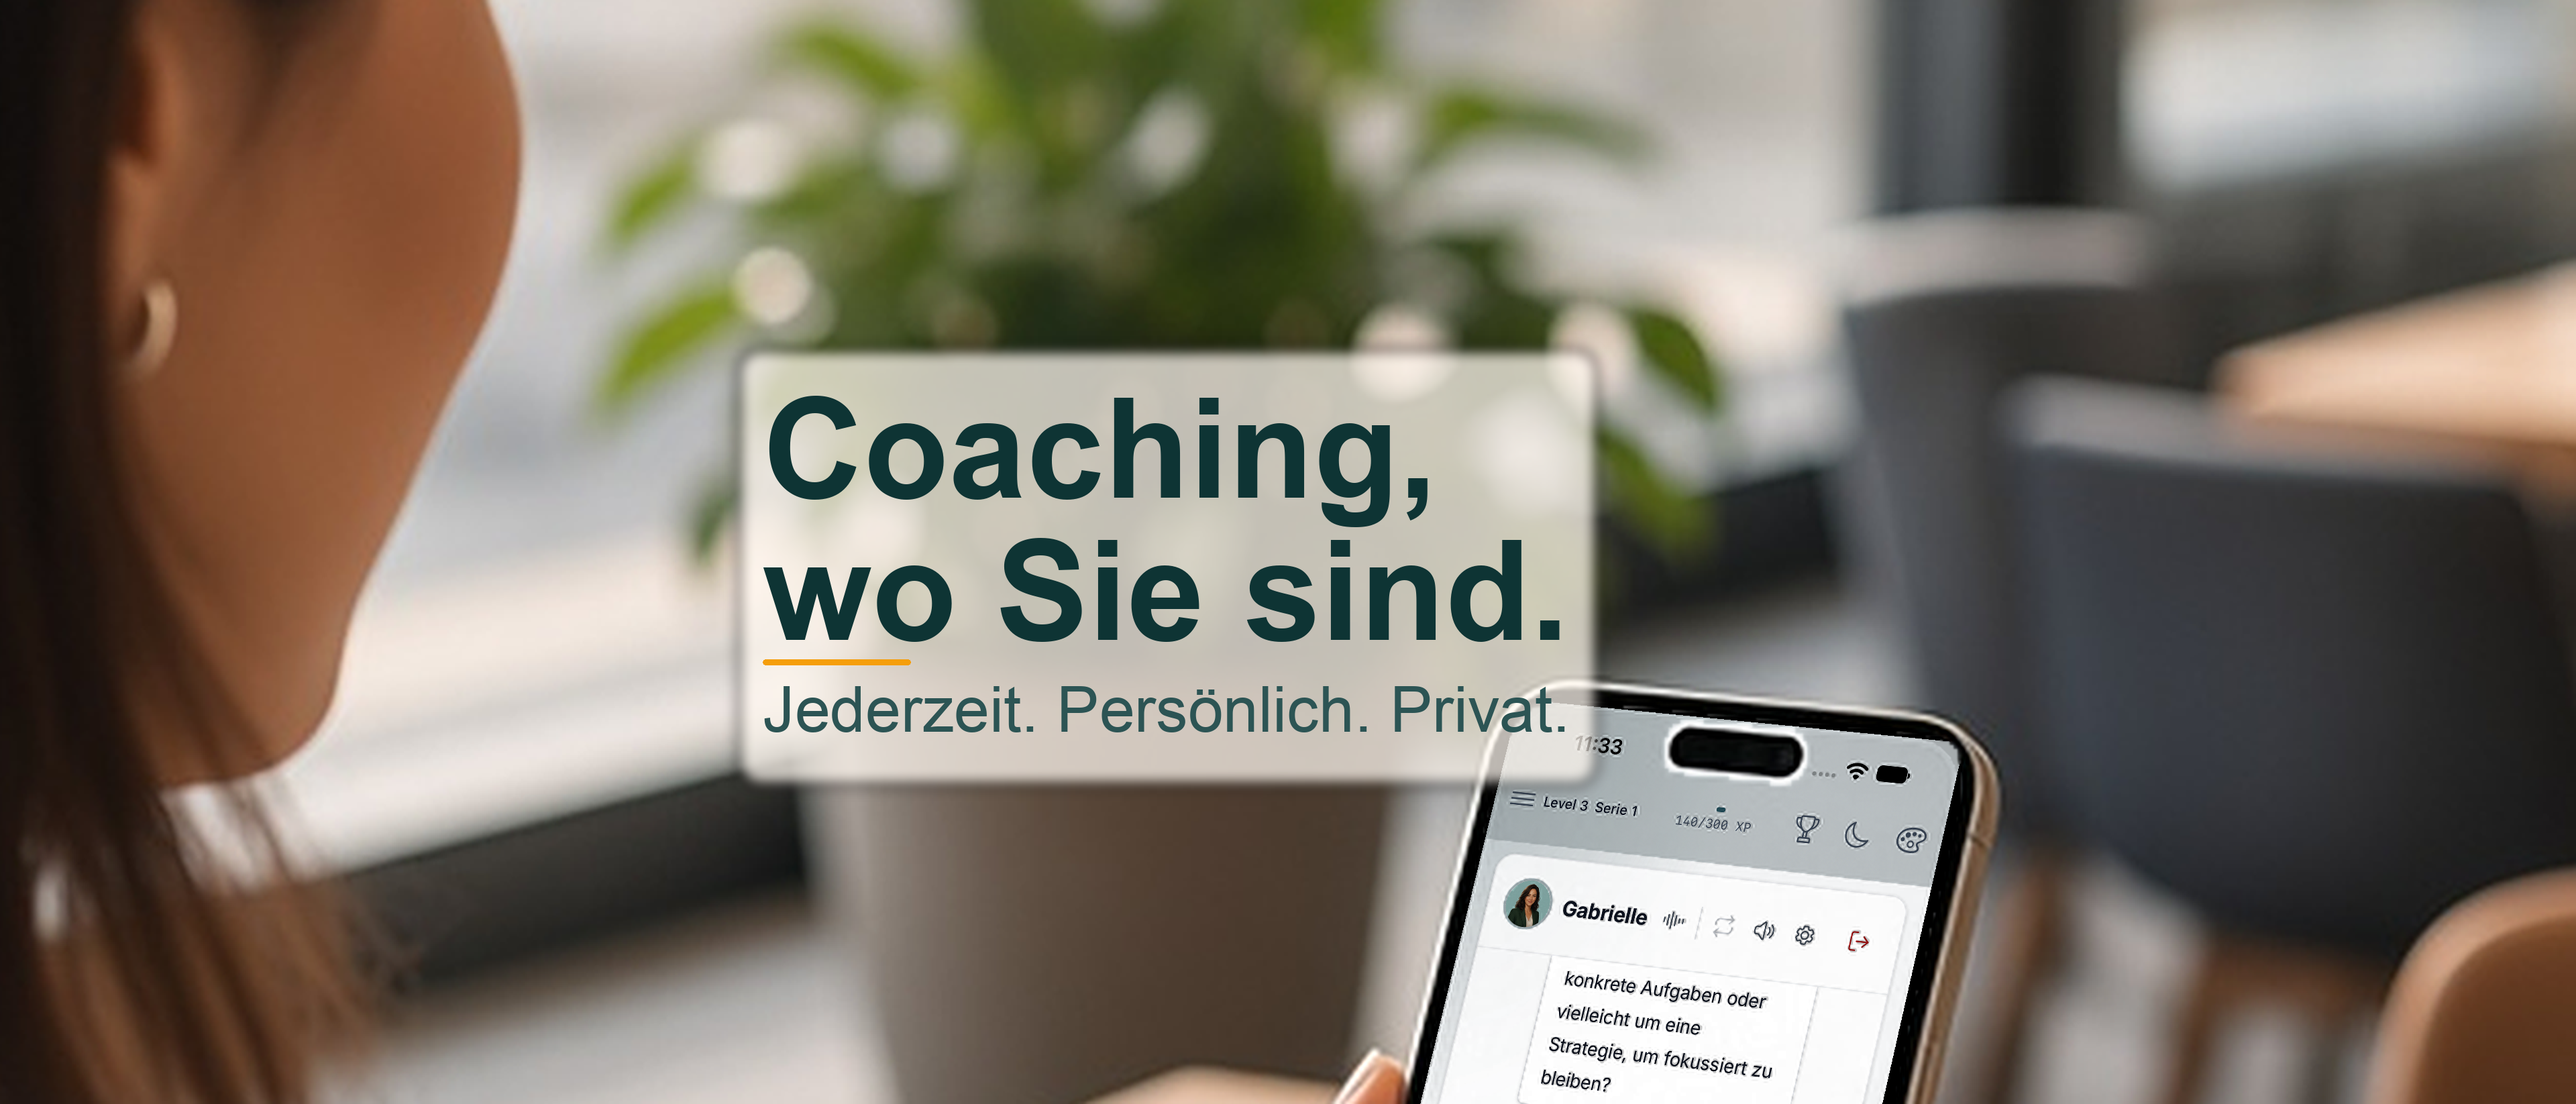
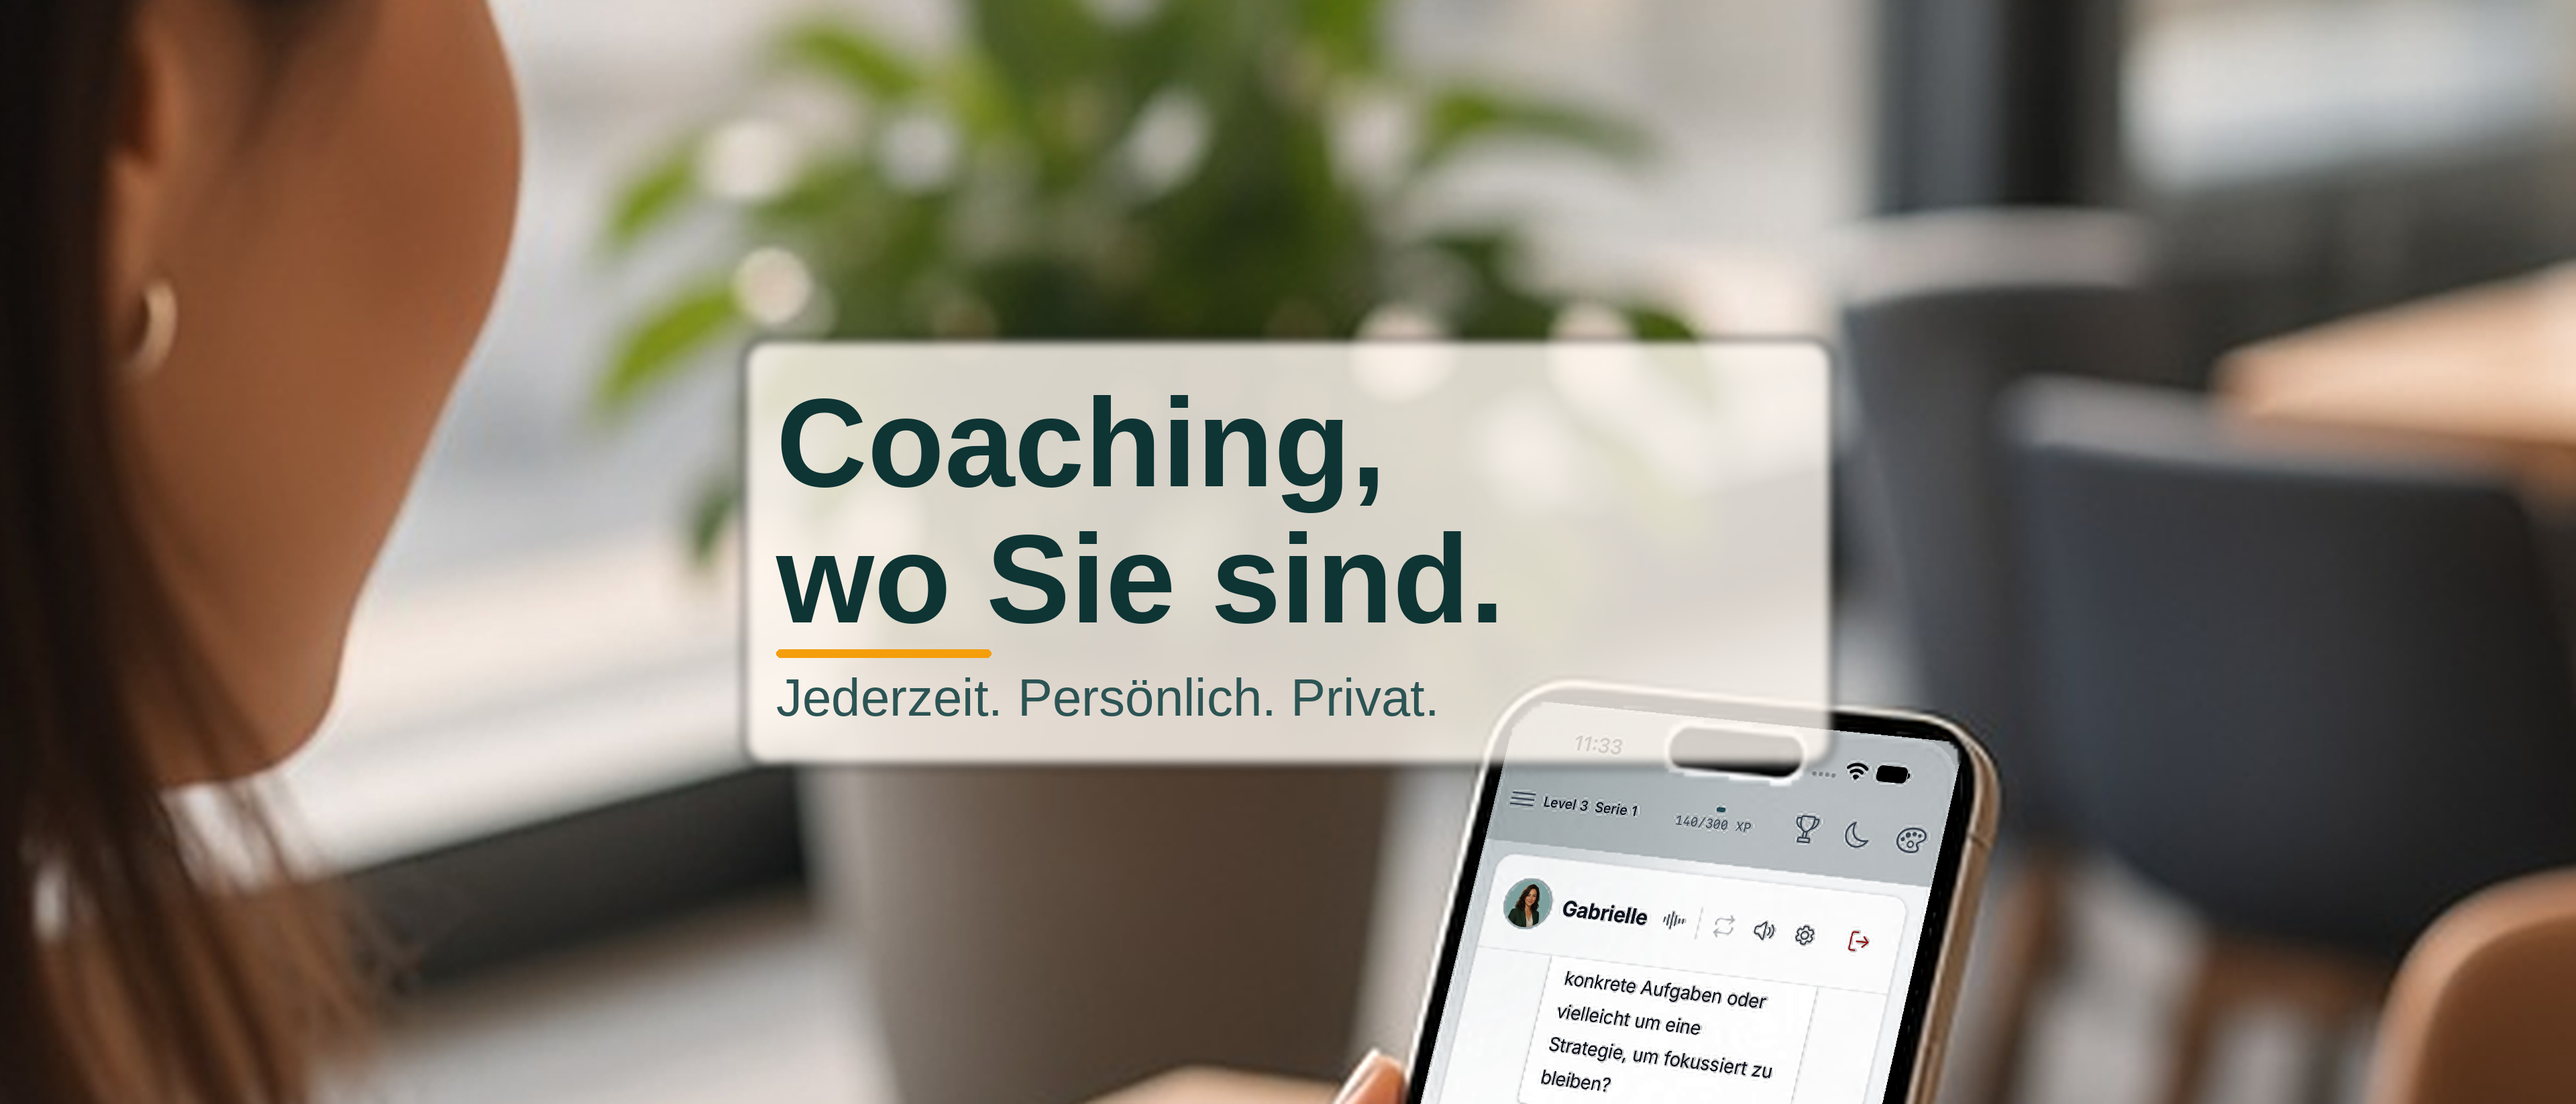
fix(asc): keep headline card inside header and search safe areas
Larger type on both creatives, and the search-result card is drawn fully inside Apple's safe area instead of a crop that clips the box.

Changed region(s): [[0.2812, 0.2789, 0.7188, 0.7126]]

diff --git a/scripts/compose-asc-universal-asset.py b/scripts/compose-asc-universal-asset.py
@@ -1,9 +1,9 @@
 #!/usr/bin/env python3
 """
-Universal creative asset from the approved 21:9 product-page header.
+Search-results creative (5244×2950).
 
-The approved 21:9 header is scaled up and cropped to 5244×2950. One sharp picture —
-no second blurred layer above or below.
+The café scene fills the frame. The headline card is drawn so the whole box
+sits inside Apple's safe area (the search-result spacer).
 
 Usage:
   python3 scripts/compose-asc-universal-asset.py
@@ -18,47 +18,57 @@ from pathlib import Path
 
 from PIL import Image, ImageDraw
 
+import importlib.util
+
 ROOT = Path(__file__).resolve().parents[1]
 BASE = ROOT / "screenshots" / "app-store" / "v2.6.0"
-HEADER = BASE / "asc-upload" / "product-page-header"
 OUT_ROOT = BASE / "asc-upload" / "universal"
 
 W, H = 5244, 2950
+# Apple search-result safe area — the whole headline card must stay inside this.
 SAFE = (1921, 660, 1402, 962)
 
-# Headline ink on the approved header (measured on the DE master).
-TEXT_BOX = (1139, 590, 2323, 956)
-
 FILES = {
-    "de": ("manualmode-product-page-header-de.png", "manualmode-universal-de.png"),
-    "en": ("manualmode-product-page-header-en.png", "manualmode-universal-en.png"),
+    "de": "manualmode-universal-de.png",
+    "en": "manualmode-universal-en.png",
 }
 
 
-def place_header(src: Image.Image, locale: str) -> Image.Image:
-    """Cover-crop the approved header. Sharp edge to edge; headline pulled into the safe area."""
-    del locale  # DE and EN share the same crop; the artwork already differs.
-    sx, sy, sw, sh = SAFE
-    x0, y0, x1, y1 = TEXT_BOX
-    safe_bottom = sy + sh - 20
-    # Scale past a plain cover so the subline can move up into the safe area
-    # without leaving a gap. Everything stays the sharp header — no blur pass.
-    scale = max(
-        W / src.width,
-        H / src.height,
-        (H - safe_bottom) / (src.height - y1),
+def _header():
+    spec = importlib.util.spec_from_file_location(
+        "asc_header", ROOT / "scripts" / "compose-asc-product-page-header.py"
     )
+    mod = importlib.util.module_from_spec(spec)
+    assert spec.loader
+    spec.loader.exec_module(mod)
+    return mod
+
+
+def cover(src: Image.Image, tw: int, th: int) -> Image.Image:
+    scale = max(tw / src.width, th / src.height)
     plate = src.resize((round(src.width * scale), round(src.height * scale)), Image.Resampling.LANCZOS)
+    left = (plate.width - tw) // 2
+    top = max(0, (plate.height - th) // 3)
+    top = min(top, plate.height - th)
+    return plate.crop((left, top, left + tw, top + th))
 
-    text_cx = (x0 + x1) / 2 * scale
-    crop_x = round(text_cx - (sx + sw / 2))
-    crop_x = max(0, min(crop_x, plate.width - W))
 
-    text_bottom = y1 * scale
-    crop_y = round(text_bottom - (sy + sh - 20))
-    crop_y = max(0, min(crop_y, plate.height - H))
-
-    return plate.crop((crop_x, crop_y, crop_x + W, crop_y + H))
+def place(locale: str, guides: bool) -> Image.Image:
+    """Café full-bleed; headline card entirely inside the search safe area."""
+    hdr = _header()
+    canvas = cover(hdr.scene(locale).convert("RGB"), W, H).convert("RGBA")
+    sx, sy, sw, sh = SAFE
+    margin = 16
+    canvas = hdr.paint_card(
+        canvas,
+        (sx + margin, sy + margin, sx + sw - margin, sy + sh - margin),
+        locale,
+    )
+    if guides:
+        ImageDraw.Draw(canvas).rectangle(
+            (sx, sy, sx + sw - 1, sy + sh - 1), outline=(255, 0, 128), width=6
+        )
+    return canvas.convert("RGB")
 
 
 def validate(path: Path) -> None:
@@ -85,21 +95,15 @@ def main() -> None:
     parser = argparse.ArgumentParser()
     parser.add_argument("--guides", action="store_true")
     args = parser.parse_args()
-    for locale, (src_name, out_name) in FILES.items():
-        src_path = HEADER / locale / src_name
-        if not src_path.is_file():
-            raise SystemExit(f"Missing approved header: {src_path}")
-        img = place_header(Image.open(src_path).convert("RGB"), locale)
-        if args.guides:
-            sx, sy, sw, sh = SAFE
-            ImageDraw.Draw(img).rectangle((sx, sy, sx + sw - 1, sy + sh - 1), outline=(255, 0, 128), width=6)
+    for locale, out_name in FILES.items():
+        img = place(locale, guides=args.guides)
         dest = OUT_ROOT / locale / out_name
         dest.parent.mkdir(parents=True, exist_ok=True)
         img.save(dest, "PNG", optimize=True)
         validate(dest)
         print(f"  ✓ {dest.relative_to(ROOT)}  ({W}×{H})")
-    print("\nSame artwork as the product-page header, framed for the universal slot.")
-    print("Upload: Header and Search Results → universal asset")
+    print("\nSearch slot: headline card is fully inside the safe area.")
+    print("Upload: Kopfzeile und Suchergebnisse → Suchergebnisse")
 
 
 if __name__ == "__main__":

diff --git a/scripts/compose-asc-product-page-header.py b/scripts/compose-asc-product-page-header.py
@@ -62,8 +62,21 @@ COPY = {
     },
 }
 
-TITLE_FONT = Path("/System/Library/Fonts/Supplemental/Arial Bold.ttf")
-BODY_FONT = Path("/System/Library/Fonts/Supplemental/Arial.ttf")
+def _first_font(*candidates: Path) -> Path:
+    for path in candidates:
+        if path.is_file():
+            return path
+    return candidates[-1]
+
+
+TITLE_FONT = _first_font(
+    Path("/System/Library/Fonts/Supplemental/Arial Bold.ttf"),
+    Path("/usr/share/fonts/truetype/liberation/LiberationSans-Bold.ttf"),
+)
+BODY_FONT = _first_font(
+    Path("/System/Library/Fonts/Supplemental/Arial.ttf"),
+    Path("/usr/share/fonts/truetype/liberation/LiberationSans-Regular.ttf"),
+)
 
 
 def load_font(path: Path, size: int) -> ImageFont.FreeTypeFont:
@@ -177,46 +190,82 @@ def _fit_font(text: str, path: Path, max_w: int, max_size: int = 240) -> ImageFo
     return load_font(path, best)
 
 
-def compose(locale: str, guides: bool = False) -> Image.Image:
+def scene(locale: str) -> Image.Image:
+    """Café + phone, no headline card."""
     meta = COPY[locale]
     slide = CAFE / locale / meta["slide"]
     if not slide.is_file():
         raise SystemExit(f"Missing café slide: {slide}")
     canvas = cafe_frame(slide).convert("RGB")
-    canvas = rescreen(canvas, locale).convert("RGBA")
-    sx, sy, sw, sh = SAFE_X, SAFE_Y, SAFE_W, SAFE_H
+    return rescreen(canvas, locale).convert("RGBA")
 
-    # Box stays in the safe area, left of the phone.
-    pad = 36
-    box = (sx + 4, sy + 28, sx + int(sw * 0.78), sy + sh - 36)
-    inner_w = box[2] - box[0] - pad * 2
+
+def paint_card(canvas: Image.Image, bounds: tuple[int, int, int, int], locale: str) -> Image.Image:
+    """Draw the headline card so the whole rounded box stays inside `bounds`."""
+    meta = COPY[locale]
+    x0, y0, x1, y1 = bounds
+    pad = 48
+    inner_w = max(80, (x1 - x0) - pad * 2)
+    inner_h = max(80, (y1 - y0) - pad * 2)
     lines = [ln.strip() for ln in meta["headline"].split("\n") if ln.strip()]
-    title_font = _fit_font(max(lines, key=len), TITLE_FONT, inner_w)
-    body_font = _fit_font(meta["sub"], BODY_FONT, inner_w)
-    title_h = int(title_font.size * 1.02)
-    body_h = int(body_font.size * 1.15)
+    longest = max(lines, key=len)
+    title_font = body_font = None
+    title_h = body_h = 0
+    for size in range(360, 48, -2):
+        title_font = load_font(TITLE_FONT, size)
+        body_font = load_font(BODY_FONT, max(40, int(size * 0.42)))
+        if _text_width(longest, title_font) > inner_w:
+            continue
+        if _text_width(meta["sub"], body_font) > inner_w:
+            continue
+        title_h = int(size * 1.08)
+        body_h = int(body_font.size * 1.25)
+        block_h = title_h * len(lines) + 36 + body_h
+        if block_h <= inner_h:
+            break
+    assert title_font and body_font
     block_h = title_h * len(lines) + 36 + body_h
-    box = (box[0], box[1], box[2], box[1] + block_h + pad * 2 + 8)
+    box_w = inner_w + pad * 2
+    box_h = block_h + pad * 2
+    # Center the card in the safe area so nothing clips.
+    left = x0 + ((x1 - x0) - box_w) // 2
+    top = y0 + ((y1 - y0) - box_h) // 2
+    box = (left, top, left + box_w, top + box_h)
 
     scrim = Image.new("RGBA", canvas.size, (0, 0, 0, 0))
-    ImageDraw.Draw(scrim).rounded_rectangle(box, radius=32, fill=(255, 248, 240, 188))
-    scrim = scrim.filter(ImageFilter.GaussianBlur(10))
+    ImageDraw.Draw(scrim).rounded_rectangle(box, radius=36, fill=(255, 248, 240, 210))
+    scrim = scrim.filter(ImageFilter.GaussianBlur(8))
     canvas = Image.alpha_composite(canvas, scrim)
 
     draw = ImageDraw.Draw(canvas)
     x = box[0] + pad
-    y = box[1] + pad - 4
+    y = box[1] + pad
     for line in lines:
         draw.text((x, y), line, fill=INK, font=title_font)
         y += title_h
-    y += 6
-    draw.rounded_rectangle((x, y, x + min(220, inner_w // 3), y + 8), radius=4, fill=ACCENT)
-    y += 22
+    y += 8
+    draw.rounded_rectangle((x, y, x + min(320, inner_w // 3), y + 12), radius=6, fill=ACCENT)
+    y += 28
     draw.text((x, y), meta["sub"], fill=MUTED, font=body_font)
+    return canvas
 
+
+def compose(locale: str, guides: bool = False) -> Image.Image:
+    canvas = scene(locale)
+    inset = 12
+    bounds = (
+        SAFE_X + inset,
+        SAFE_Y + inset,
+        SAFE_X + SAFE_W - inset,
+        SAFE_Y + SAFE_H - inset,
+    )
+    canvas = paint_card(canvas, bounds, locale)
     if guides:
-        draw.rectangle((sx, sy, sx + sw, sy + sh), outline=(255, 0, 128), width=4)
-
+        ImageDraw.Draw(canvas).rectangle(
+            (SAFE_X, SAFE_Y, SAFE_X + SAFE_W, SAFE_Y + SAFE_H),
+            outline=(255, 0, 128),
+            width=4,
+        )
     return canvas.convert("RGB")
 
 
